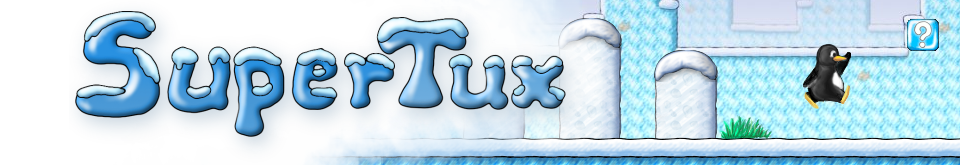
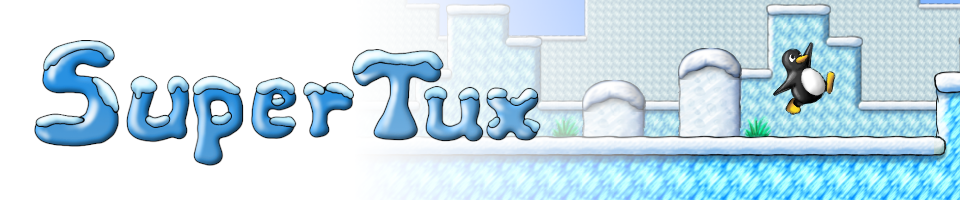
Update the SuperTux webpage (#6)
* Update some pages pt. 1

* Update header file

* Update banner image

* Update download.md

diff --git a/_includes/header.html b/_includes/header.html
@@ -7,9 +7,9 @@
   <nav>
     <ul class="menu">
       <li><a href="{{ site.baseurl }}/index.html">Home</a></li>
-      <li><a href="{{ site.baseurl }}/discover.html">Discover</a></li>
       <li><a href="{{ site.baseurl }}/download.html">Download</a></li>
       <li><a href="{{ site.baseurl }}/news/">News</a></li>
+	  <li><a href="{{ site.baseurl }}/discover.html">About</a></li>
       <li><a href="{{ site.baseurl }}/screenshots.html">Screenshots</a></li>
       <li><a href="{{ site.baseurl }}/donate.html">Donate</a></li>
       <li><a href="{{ site.baseurl }}/contact.html">Contact</a></li>

diff --git a/download.md b/download.md
@@ -5,6 +5,13 @@ title: Download
 
 ## Download
 
+Here is the page to download SuperTux in all its many forms!
+
+## Current Stable Release (0.6.0)
+
+The main releases of SuperTux are available on Windows, macOS and Linux. Listed
+here are the download links for the current stable release.
+
 ### Linux
 
 - [**SuperTux v0.6.0** (.AppImage)](https://github.com/SuperTux/supertux/releases/download/v0.6.0/SuperTux_2-v0.6.0.glibc2.14-x86_64.AppImage)
@@ -21,19 +28,33 @@ SuperTux packages are also available in many Linux distributions.
 
 - [**SuperTux v0.6.0** (.dmg)](https://github.com/SuperTux/supertux/releases/download/v0.6.0/SuperTux-v0.6.0-Darwin.dmg)
 
-### Source Code
+### Other Downloads
+
+The official releases are the only available releases of SuperTux; Nightly Builds 
+and the source code exist! You can also get SuperTux for Android!
+
+#### Nightly Builds
+
+Are you interested in playing the most recent development build and trying out
+new features? Look no further than...
+- [**SuperTux Nightly Builds!**](https://download.supertux.org/)
+Note that these builds are highly unstable and might cause damage to your computer! 
+Play at your own risk! 
+
+#### Source Code
+
+Do you want the direct source code of the game to do whatever you want with?
+Get it here:
 
 - [**SuperTux v0.6.0** (.tar.gz)](https://github.com/SuperTux/supertux/releases/download/v0.6.0/SuperTux-v0.6.0-Source.tar.gz)
 
-### Mobile Platforms
+#### Mobile Platforms (Android)
 
-Right now, there is no official support for mobile platforms (e.g. Android,
-iOS). However, there are community-provided ports for some of these platforms.
+Right now, there is no official support for mobile platforms (e.g. Android). 
+However, there are community-provided ports for some of these platforms.
 **Since we do not own or control these, use of them is at your own discretion.**
 Also, it might be possible that these ports are out of date or have a limited
-set of features.
-
-#### Android
+set of features. SuperTux is also not available for iOS and most likely never will be.
 
 - [**SuperTux v0.5.1** (Google Play)](https://play.google.com/store/apps/details?id=org.lethargik.supertux2&hl=en)
 - [**SuperTux v0.5.1** (Source Code Repository)](https://github.com/pelya/supertux)

diff --git a/discover.md b/discover.md
@@ -1,6 +1,6 @@
 ---
 layout: in-pagebody
-title: Discover
+title: About
 ---
 
 ## Welcome to SuperTux!
@@ -17,8 +17,7 @@ contribute such content by using the integrated level editor.
 ### The Story: Penny Gets Captured!
 
 Tux and Penny were out having a nice picnic on the ice fields of Antarctica.
-Suddenly, a creature jumped from behind an ice bush, there was a flash, and Tux
-fell asleep!
+Suddenly, everything was a blur as Tux was knocked out!
 
 When Tux wakes up, he finds that Penny is missing. Where she lay before now lies
 a letter. "Tux, my arch enemy!" says the letter. "I have captured your beautiful
@@ -27,4 +26,4 @@ with my minions. Give up on the thought of trying to reclaim her, you haven't
 got a chance! -Nolok"
 
 Tux looks and sees Nolok's fortress in the distance. Determined to save his
-beloved Penny, he begins his journey.
+beloved Penny, he begins his journey through the Icy Island and beyond.

diff --git a/contact.md b/contact.md
@@ -7,7 +7,7 @@ title: Contact
 
 Here are the many ways you can contact the team. Usually they will answer quite
 quickly, but if they don't please be patient and give them the benefit of the
-doubt. Yes, that means stick around IRC longer than 2 minutes.
+doubt. Yes, that means stick around IRC longer than 2 minutes. ;)
 
 ### Social Networks
 
@@ -45,8 +45,3 @@ you leave.
 
 We're [@SuperTux](https://github.com/SuperTux) on GitHub. This is the place
 where SuperTux's source code and issue tracker is hosted.
-
-### Links
-
-A great guide for the SuperTux 0.3 editor, created by Devyn Collier Johnson can
-be found at [DCJTech Gaming](http://dcjtech.info/topic/gaming/#supertux).
